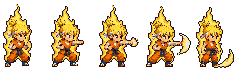
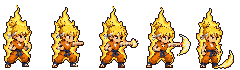
Gogu: new stage I run row (Samuel's v2)
Claude-Session: https://claude.ai/code/session_018e4pu3rfaHAAnQKEVVgxK4

diff --git a/src/heroAnims.ts b/src/heroAnims.ts
@@ -91,7 +91,7 @@ export const HERO_ANIMS: Record<string, HeroAnim> = {
   juggles: { frame: [56,48], feet: [33,47], headTop: 6, run: 4, attack: 5, hitFrame: 0 },
   kairo: { frame: [42,54], feet: [18,53], headTop: 3, run: 6, attack: 5, hitFrame: 2 },
   kairo_surge: { frame: [51,65], feet: [21,64], headTop: 10, run: 6, attack: 5, hitFrame: 2 },
-  kairo_surge1: { frame: [48,69], feet: [17,68], headTop: 4, run: 6, attack: 5, hitFrame: 3 },
+  kairo_surge1: { frame: [48,70], feet: [17,69], headTop: 5, run: 6, attack: 5, hitFrame: 3 },
   kairo_surge3: { frame: [57,80], feet: [24,79], headTop: 12, run: 6, attack: 5, hitFrame: 4 },
   kestra: { frame: [61,56], feet: [29,55], headTop: 8, run: 5, attack: 5, hitFrame: 2 },
   kiln: { frame: [80,57], feet: [32,56], headTop: 5, run: 5, attack: 5, hitFrame: 3 },

diff --git a/src/portraitBounds.ts b/src/portraitBounds.ts
@@ -83,7 +83,7 @@ export const HERO_BOUNDS: Record<string, ArtBounds> = {
   juggles: [56, 48, 7, 6, 54, 47, 35],
   kairo: [42, 54, 5, 3, 30, 53, 18.4],
   kairo_surge: [51, 65, 6, 10, 36, 64, 21],
-  kairo_surge1: [48, 69, 3, 4, 32, 67, 16.9],
+  kairo_surge1: [48, 70, 3, 5, 32, 68, 16.9],
   kairo_surge3: [57, 80, 5, 12, 44, 74, 24.5],
   kestra: [61, 56, 4, 8, 55, 55, 29.9],
   kiln: [80, 57, 6, 5, 56, 56, 30.4],
